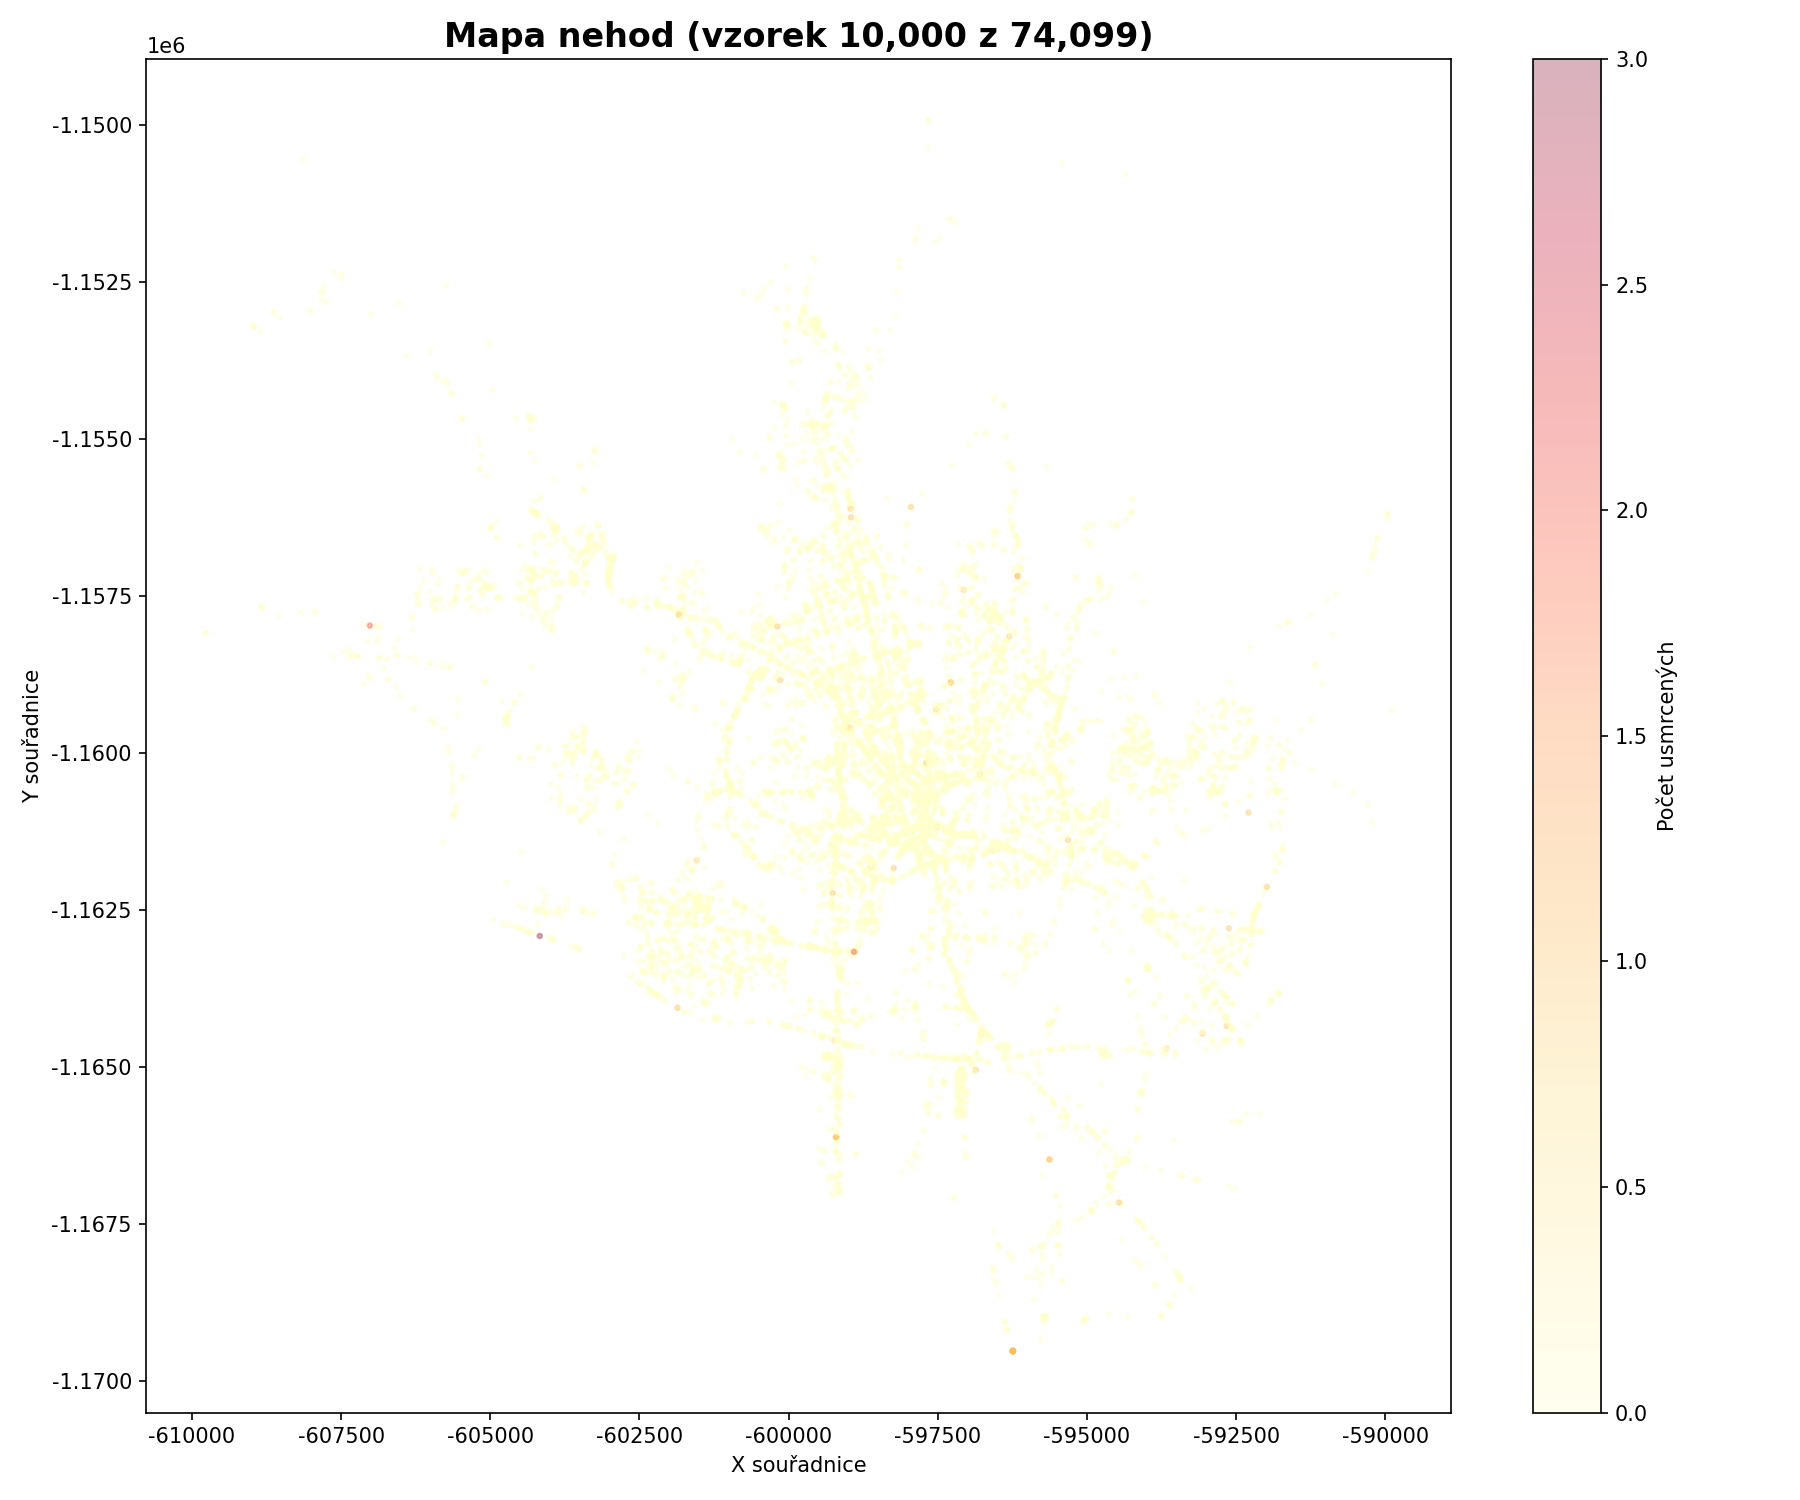
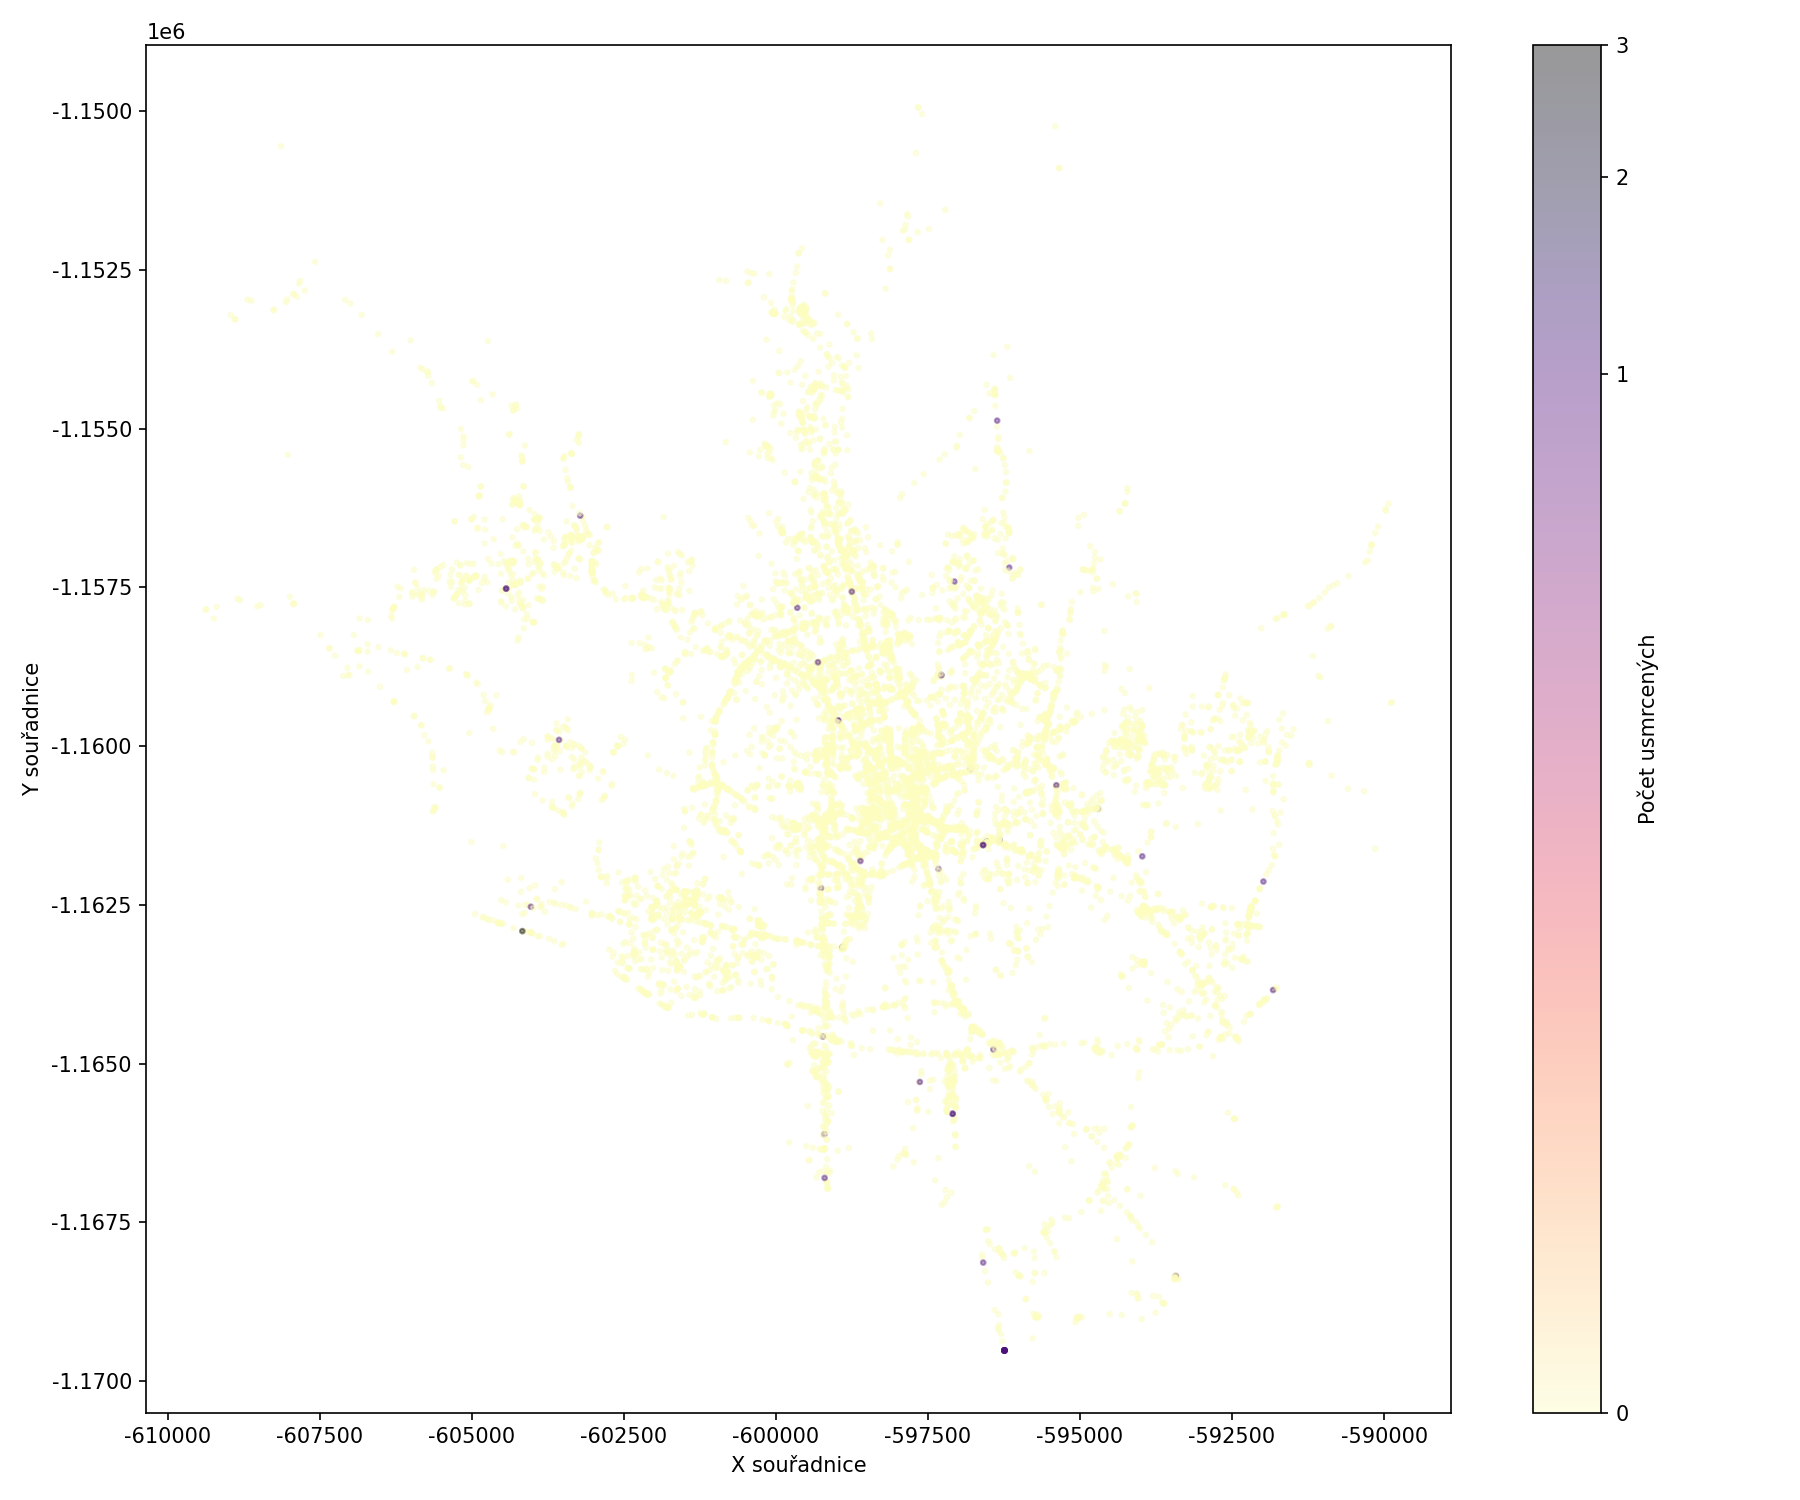
data and color change

diff --git a/nehodyAnalysis.py b/nehodyAnalysis.py
@@ -8,8 +8,6 @@ import sys
 plt.rcParams['font.sans-serif'] = ['DejaVu Sans', 'Arial']
 plt.rcParams['axes.unicode_minus'] = False
 
-## fix nesprávé, přenosti
-
 # Otevření souboru pro zápis výstupu
 output_file = open('graphs/nehody/nehody_analyza_report.txt', 'w', encoding='utf-8')
 
@@ -18,6 +16,11 @@ def tiskni(text=""):
 
 # Načtení dat
 df = pd.read_csv("data/dopravni_nehody.csv", low_memory=False)
+
+# Oprava překlepů v textových sloupcích
+typo_map = {"nesprávé": "nesprávné", "přenosti": "přednosti"}
+for col in df.select_dtypes(include=["object"]):
+    df[col] = df[col].replace(typo_map, regex=True)
 
 # Základní statistiky
 tiskni("ZÁKLADNÍ PŘEHLED")
@@ -153,27 +156,62 @@ tiskni()
 
 # Vizualizace
 # Graf 1: Nehody podle roků
-fig1, ax1 = plt.subplots(figsize=(10, 6))
+fig1, ax1 = plt.subplots(figsize=(11, 6))
 rok_data = df['rok'].value_counts().sort_index()
-ax1.bar(rok_data.index, rok_data.values, color='steelblue')
-ax1.set_title('Počet nehod podle roků', fontsize=14, fontweight='bold')
+usmrceni_rok = df.groupby('rok')['usmrceno_os'].sum().sort_index()
+
+x = range(len(rok_data))
+width = 0.35
+bars1 = ax1.bar([i - width/2 for i in x], rok_data.values, width, label='Počet nehod', color='coral')
+bars2 = ax1.bar([i + width/2 for i in x], usmrceni_rok.values, width, label='Počet usmrcených', color='darkred')
+
+ax1.set_xticks(x)
+ax1.set_xticklabels(rok_data.index)
 ax1.set_xlabel('Rok')
-ax1.set_ylabel('Počet nehod')
+ax1.set_ylabel('Počet')
+ax1.legend()
 ax1.grid(axis='y', alpha=0.3)
+
+# Počty nad sloupci
+for bar, value in zip(bars1, rok_data.values):
+    height = bar.get_height()
+    ax1.text(bar.get_x() + bar.get_width()/2, height * 1.005,
+             f"{value:}", ha='center', va='bottom', fontsize=8, rotation=0)
+for bar, value in zip(bars2, usmrceni_rok.values):
+    height = bar.get_height()
+    ax1.text(bar.get_x() + bar.get_width()/2, height * 1.005,
+             f"{value:}", ha='center', va='bottom', fontsize=8, rotation=0)
+
 plt.tight_layout()
 plt.savefig("graphs/nehody/nehody_podle_roku.png", dpi=150)
 print("Graf 1: graphs/nehody/nehody_podle_roku.png")
 plt.close()
 
 # Graf 2: Top 10 lokalit
-fig2, ax2 = plt.subplots(figsize=(10, 6))
+fig2, ax2 = plt.subplots(figsize=(13, 6))
 top_10 = df['zuj'].value_counts().head(10)
-ax2.barh(range(len(top_10)), top_10.values, color='coral')
-ax2.set_yticks(range(len(top_10)))
+usmrceni_lokality = df.groupby('zuj')['usmrceno_os'].sum().reindex(top_10.index)
+
+y_pos = range(len(top_10))
+width = 0.35
+bars1 = ax2.barh([i - width/2 for i in y_pos], top_10.values, width, label='Počet nehod', color='coral')
+bars2 = ax2.barh([i + width/2 for i in y_pos], usmrceni_lokality.values, width, label='Počet usmrcených', color='darkred')
+
+ax2.set_yticks(y_pos)
 ax2.set_yticklabels(top_10.index, fontsize=9)
-ax2.set_title('Top 10 lokalit podle počtu nehod', fontsize=14, fontweight='bold')
-ax2.set_xlabel('Počet nehod')
+ax2.set_xlabel('Počet')
+ax2.legend()
 ax2.invert_yaxis()
+
+for bar, value in zip(bars1, top_10.values):
+    width = bar.get_width()
+    ax2.text(width * 1.01, bar.get_y() + bar.get_height()/2,
+             f"{value:}", va='center', ha='left', fontsize=8)
+for bar, value in zip(bars2, usmrceni_lokality.values):
+    width = bar.get_width()
+    ax2.text(width * 1.01, bar.get_y() + bar.get_height()/2,
+             f"{value:}", va='center', ha='left', fontsize=8)
+
 plt.tight_layout()
 plt.savefig("graphs/nehody/nehody_top_lokality.png", dpi=150)
 print("Graf 2: graphs/nehody/nehody_top_lokality.png")
@@ -183,8 +221,26 @@ plt.close()
 if 'hlavni_pricina' in df.columns:
     fig3, ax3 = plt.subplots(figsize=(10, 8))
     priciny_top = df['hlavni_pricina'].value_counts().head(8)
-    ax3.pie(priciny_top.values, labels=priciny_top.index, autopct='%1.1f%%', startangle=90)
-    ax3.set_title('Hlavní příčiny nehod', fontsize=14, fontweight='bold')
+    values = priciny_top.values
+    labels = priciny_top.index
+    total = values.sum()
+    wedges, _, autotexts = ax3.pie(
+        values,
+        labels=None,
+        autopct=lambda pct: f"{pct:.1f}%" if pct >= 5 else '',
+        startangle=135,
+        pctdistance=0.85,
+        textprops={'fontsize': 10}
+    )
+
+    for wedge, autotext, val in zip(wedges, autotexts, values):
+        pct = (val / total) * 100
+        if pct < 5:
+            continue
+
+    legend_labels = [f"{lbl} ({(val/total)*100:.1f}%)" for lbl, val in zip(labels, values)]
+    ax3.legend(wedges, legend_labels, title='Příčiny', bbox_to_anchor=(0.95, 0.5), loc='center left')
+    plt.subplots_adjust(right=0.78)
     plt.tight_layout()
     plt.savefig("graphs/nehody/nehody_priciny.png", dpi=150)
     print("Graf 3: graphs/nehody/nehody_priciny.png")
@@ -194,39 +250,85 @@ if 'hlavni_pricina' in df.columns:
 if 'mesic' in df.columns:
     fig4, ax4 = plt.subplots(figsize=(10, 6))
     mesic_data = df['mesic'].value_counts().sort_index()
-    ax4.plot(mesic_data.index, mesic_data.values, marker='o', linewidth=2, color='green', markersize=8)
-    ax4.set_title('Nehody podle měsíců', fontsize=14, fontweight='bold')
+    usmrceni_mesic = df.groupby('mesic')['usmrceno_os'].sum().sort_index()
+    
+    ax4_2 = ax4.twinx()
+    ax4.plot(mesic_data.index, mesic_data.values, marker='o', linewidth=2, color='coral', markersize=8, label='Počet nehod')
+    ax4_2.plot(usmrceni_mesic.index, usmrceni_mesic.values, marker='s', linewidth=2, color='darkred', markersize=8, label='Počet usmrcených')
+    
     ax4.set_xlabel('Měsíc')
-    ax4.set_ylabel('Počet nehod')
+    ax4.set_ylabel('Počet nehod', color='coral')
+    ax4_2.set_ylabel('Počet usmrcených', color='darkred')
     ax4.set_xticks(range(1, 13))
+    ax4.tick_params(axis='y', labelcolor='coral')
+    ax4_2.tick_params(axis='y', labelcolor='darkred')
     ax4.grid(True, alpha=0.3)
+    lines1, labels1 = ax4.get_legend_handles_labels()
+    lines2, labels2 = ax4_2.get_legend_handles_labels()
+    ax4.legend(lines1 + lines2, labels1 + labels2, loc='upper left')
     plt.tight_layout()
     plt.savefig("graphs/nehody/nehody_podle_mesicu.png", dpi=150)
     print("Graf 4: graphs/nehody/nehody_podle_mesicu.png")
     plt.close()
 
-# Graf 5: Mapa nehod (pokud jsou souřadnice)
+# Graf 5: Nehody podle dne v týdnu
+if 'den_v_tydnu' in df.columns:
+    fig5, ax5 = plt.subplots(figsize=(10, 6))
+    dny_data = df['den_v_tydnu'].value_counts()
+    usmrceni_dny = df.groupby('den_v_tydnu')['usmrceno_os'].sum()
+    dny_order = ['pondělí', 'úterý', 'středa', 'čtvrtek', 'pátek', 'sobota', 'neděle']
+    
+    # Seřadit podle pořadí dní
+    dny_data = dny_data.reindex([d for d in dny_order if d in dny_data.index])
+    usmrceni_dny = usmrceni_dny.reindex([d for d in dny_order if d in usmrceni_dny.index])
+    
+    x = range(len(dny_data))
+    width = 0.35
+    bars1 = ax5.bar([i - width/2 for i in x], dny_data.values, width, label='Počet nehod', color='coral')
+    bars2 = ax5.bar([i + width/2 for i in x], usmrceni_dny.values, width, label='Počet usmrcených', color='darkred')
+    
+    ax5.set_xticks(x)
+    ax5.set_xticklabels(dny_data.index, rotation=45, ha='right')
+    ax5.set_ylabel('Počet')
+    ax5.legend()
+    ax5.grid(axis='y', alpha=0.3)
+    
+    for bar, value in zip(bars1, dny_data.values):
+        height = bar.get_height()
+        ax5.text(bar.get_x() + bar.get_width()/2, height * 1.005, f"{value:}", ha='center', va='bottom', fontsize=8)
+    for bar, value in zip(bars2, usmrceni_dny.values):
+        height = bar.get_height()
+        ax5.text(bar.get_x() + bar.get_width()/2, height * 1.005, f"{value:}", ha='center', va='bottom', fontsize=8)
+    
+    plt.tight_layout()
+    plt.savefig("graphs/nehody/nehody_podle_dne.png", dpi=150)
+    print("Graf 5: graphs/nehody/nehody_podle_dne.png")
+    plt.close()
+
+# Graf 6: Mapa nehod (pokud jsou souřadnice)
 if 'x' in df.columns and 'y' in df.columns:
     valid_coords = df[(df['x'].notna()) & (df['y'].notna())].copy()
     if len(valid_coords) > 0:
-        fig5, ax5 = plt.subplots(figsize=(12, 10))
+        fig6, ax6 = plt.subplots(figsize=(12, 10))
         
         # Vzorkování pro rychlejší zobrazení
         sample_size = min(10000, len(valid_coords))
         sample = valid_coords.sample(sample_size)
         
-        scatter = ax5.scatter(sample['x'], sample['y'], 
+        from matplotlib.colors import PowerNorm
+        scatter = ax6.scatter(sample['x'], sample['y'], 
                            c=sample['usmrceno_os'], 
-                           cmap='YlOrRd', 
-                           alpha=0.3, 
+                           cmap='magma_r', 
+                           norm=PowerNorm(gamma=0.25),
+                           alpha=0.4, 
                            s=5)
-        ax5.set_title(f'Mapa nehod (vzorek {sample_size:,} z {len(valid_coords):,})', fontsize=16, fontweight='bold')
-        ax5.set_xlabel('X souřadnice')
-        ax5.set_ylabel('Y souřadnice')
-        plt.colorbar(scatter, label='Počet usmrcených', ax=ax5)
+        ax6.set_xlabel('X souřadnice')
+        ax6.set_ylabel('Y souřadnice')
+        cbar = plt.colorbar(scatter, label='Počet usmrcených', ax=ax6)
+        cbar.ax.yaxis.set_major_locator(plt.MaxNLocator(integer=True))
         plt.tight_layout()
         plt.savefig("graphs/nehody/nehody_mapa.png", dpi=150)
-        print("Graf 5: graphs/nehody/nehody_mapa.png")
+        print("Graf 6: graphs/nehody/nehody_mapa.png")
         plt.close()
 
 output_file.close()
